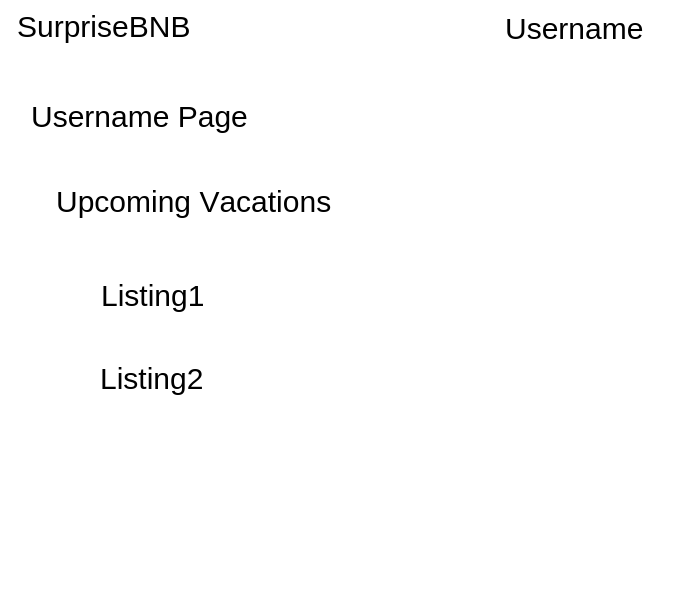
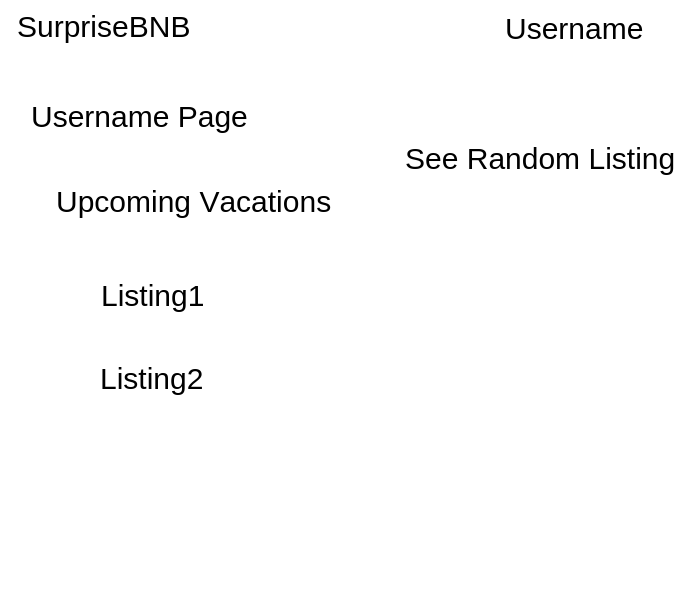
Updated wireframes

Changed region(s): [[0.57, 0.24, 0.96, 0.3]]

diff --git a/docs/views.md b/docs/views.md
@@ -3,24 +3,21 @@
 ## New Session
 ![new-session]
 
-## Feed Show (landing page)
-![feed-show]
+## Listing Form
+![listing_form]
 
 ## Blog Show
 ![blog-show]
 
-## Post Show
-![post-show]
+## Listing Show Revealed
+![listing_reveal_show]
 
-## Post Form
-![post-form]
+## User Show (landing page)
+![users_show]
 
-## Search Results
-![search-results]
 
 [new-session]: ./wireframes/new_session.png
-[feed-show]: ./wireframes/feed_show.png
-[blog-show]: ./wireframes/blog_show.png
-[post-show]: ./wireframes/post_show.png
-[post-form]: ./wireframes/post_form.png
-[search-results]: ./wireframes/search_results.png
+[listing_show]: ./wireframes/listing_show.png
+[listing_reveal_show]: ./wireframes/listing_reveal_show.png
+[listing_form]: ./wireframes/listing_form.png
+[users_show]: ./wireframes/user_show.png
